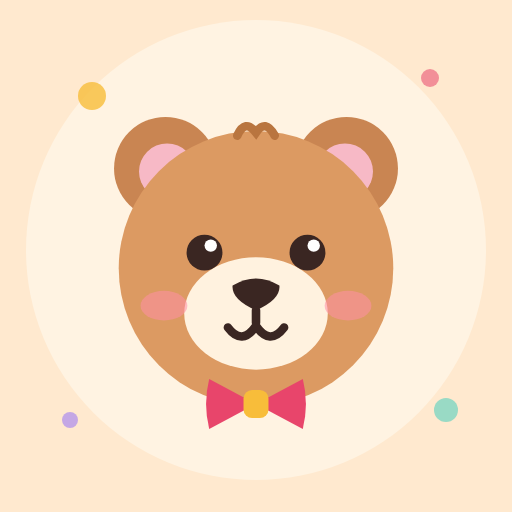
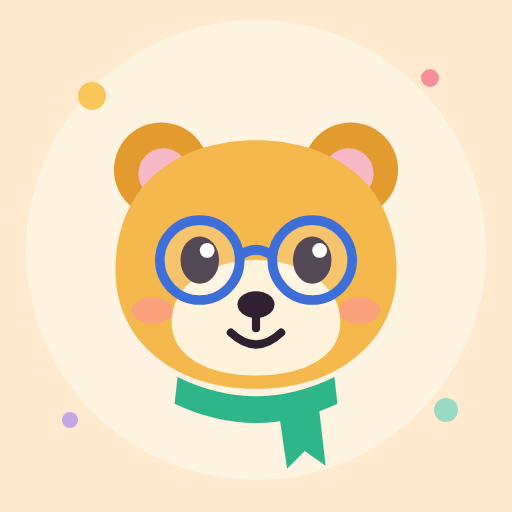
Nový vzhľad medveďa Bystríka (okuliare, šál), nová ikonka a obrázková Dnešná cesta na Domove
Claude-Session: https://claude.ai/code/session_018aZDihgpDWGJXkeqRS6Fno

Changed region(s): [[0.2188, 0.2188, 0.7812, 0.9062]]

diff --git a/index.html b/index.html
@@ -1153,6 +1153,9 @@ body{background-attachment:fixed!important}
 .vhg i.now{outline:2.5px solid var(--accent);outline-offset:1px}
 .vhl{display:flex;align-items:center;gap:4px;font-size:.66rem;font-weight:700;color:var(--muted);width:100%}.vhl i{width:14px;height:14px;border-radius:4px}
 .vspark{width:100%;height:96px;display:block}.vsl{display:flex;justify-content:space-between;font-size:.72rem;font-weight:700;color:var(--muted)}.vsl b{color:var(--ink)}
+.pathcard{padding:12px 14px;display:flex;flex-direction:column;gap:8px}.pathcard .sec h2{font-size:1.25rem}
+.pathwrap{position:relative;border-radius:16px;overflow:visible;border:2px solid var(--edge)}.pathwrap svg{display:block;width:100%;height:auto;border-radius:14px}
+.pathbear{position:absolute;width:15%;aspect-ratio:1;transform:translate(-50%,-112%);pointer-events:none;transition:left .6s cubic-bezier(.3,1.3,.5,1),top .6s}.pathbear svg{width:100%;height:100%;filter:drop-shadow(0 3px 0 rgba(0,0,0,.15));animation:bob 2.4s ease-in-out infinite}
 /* ===== Vlastný vzhľad „mapa dobrodružstva“ ===== */
 .card{border-width:2px;box-shadow:0 6px 0 var(--drop),0 14px 24px -14px var(--drop)}
 .btn{border-width:2px;border-radius:999px;letter-spacing:.01em}
@@ -1193,7 +1196,7 @@ h1,h2,.logintitle{letter-spacing:-.01em}
   .loginv{max-width:520px}
 }
 </style>
-<svg width="0" height="0" style="position:absolute\" aria-hidden="true"><defs><radialGradient id="bfur" cx="38%" cy="28%" r="80%"><stop offset="0" stop-color="#F2B782"/><stop offset=".55" stop-color="#D9935A"/><stop offset="1" stop-color="#B36F3A"/></radialGradient><radialGradient id="bfur2" cx="40%" cy="30%" r="80%"><stop offset="0" stop-color="#DFA06A"/><stop offset="1" stop-color="#A9652F"/></radialGradient><radialGradient id="bbelly" cx="50%" cy="30%" r="80%"><stop offset="0" stop-color="#FFF3E0"/><stop offset="1" stop-color="#F5D2A8"/></radialGradient><radialGradient id="bear" cx="50%" cy="40%" r="70%"><stop offset="0" stop-color="#FFC9D6"/><stop offset="1" stop-color="#F29BB0"/></radialGradient><radialGradient id="bcheek" cx="50%" cy="50%" r="50%"><stop offset="0" stop-color="#FF7F9A" stop-opacity=".8"/><stop offset="1" stop-color="#FF7F9A" stop-opacity="0"/></radialGradient><linearGradient id="bbow" x1="0" y1="0" x2="0" y2="1"><stop offset="0" stop-color="#FF8A6B"/><stop offset="1" stop-color="#E8482F"/></linearGradient><radialGradient id="cg" cx="35%" cy="30%" r="75%"><stop offset="0" stop-color="#FFF4B0"/><stop offset=".45" stop-color="#FFD23F"/><stop offset="1" stop-color="#E09A00"/></radialGradient><linearGradient id="cg2" x1="0" y1="0" x2="1" y2="1"><stop offset="0" stop-color="#FFE77A"/><stop offset="1" stop-color="#C77F00"/></linearGradient></defs><symbol id="coin" viewBox="0 0 40 40"><circle cx="20" cy="20" r="19" fill="url(#cg2)"/><circle cx="20" cy="20" r="15.5" fill="url(#cg)" stroke="#B87400" stroke-width="1.2"/><g stroke="#C98200" stroke-width="2" stroke-linecap="round"><path d="M20 7.5v3.5M20 29v3.5M7.5 20h3.5M29 20h3.5M11.2 11.2l2.4 2.4M26.4 26.4l2.4 2.4M28.8 11.2l-2.4 2.4M13.6 26.4l-2.4 2.4"/></g><circle cx="20" cy="20" r="5.5" fill="#FFB800" stroke="#C98200" stroke-width="1.5"/><path d="M12 12.5a11 11 0 0 1 9-4.5" stroke="#FFFBE0" stroke-width="2" fill="none" stroke-linecap="round" opacity=".9"/></symbol></svg>
+<svg width="0" height="0" style="position:absolute\" aria-hidden="true"><defs><radialGradient id="bfur" cx="38%" cy="26%" r="85%"><stop offset="0" stop-color="#FFD98A"/><stop offset=".55" stop-color="#F2B24A"/><stop offset="1" stop-color="#D98A22"/></radialGradient><radialGradient id="bfur2" cx="40%" cy="30%" r="80%"><stop offset="0" stop-color="#F5BC5C"/><stop offset="1" stop-color="#CF7F1E"/></radialGradient><radialGradient id="bbelly" cx="50%" cy="30%" r="80%"><stop offset="0" stop-color="#FFF3E0"/><stop offset="1" stop-color="#F5D2A8"/></radialGradient><radialGradient id="bear" cx="50%" cy="40%" r="70%"><stop offset="0" stop-color="#FFC9D6"/><stop offset="1" stop-color="#F29BB0"/></radialGradient><radialGradient id="bcheek" cx="50%" cy="50%" r="50%"><stop offset="0" stop-color="#FF7F9A" stop-opacity=".8"/><stop offset="1" stop-color="#FF7F9A" stop-opacity="0"/></radialGradient><linearGradient id="bbow" x1="0" y1="0" x2="0" y2="1"><stop offset="0" stop-color="#4FD3A5"/><stop offset="1" stop-color="#1F9D78"/></linearGradient><radialGradient id="cg" cx="35%" cy="30%" r="75%"><stop offset="0" stop-color="#FFF4B0"/><stop offset=".45" stop-color="#FFD23F"/><stop offset="1" stop-color="#E09A00"/></radialGradient><linearGradient id="cg2" x1="0" y1="0" x2="1" y2="1"><stop offset="0" stop-color="#FFE77A"/><stop offset="1" stop-color="#C77F00"/></linearGradient></defs><symbol id="coin" viewBox="0 0 40 40"><circle cx="20" cy="20" r="19" fill="url(#cg2)"/><circle cx="20" cy="20" r="15.5" fill="url(#cg)" stroke="#B87400" stroke-width="1.2"/><g stroke="#C98200" stroke-width="2" stroke-linecap="round"><path d="M20 7.5v3.5M20 29v3.5M7.5 20h3.5M29 20h3.5M11.2 11.2l2.4 2.4M26.4 26.4l2.4 2.4M28.8 11.2l-2.4 2.4M13.6 26.4l-2.4 2.4"/></g><circle cx="20" cy="20" r="5.5" fill="#FFB800" stroke="#C98200" stroke-width="1.5"/><path d="M12 12.5a11 11 0 0 1 9-4.5" stroke="#FFFBE0" stroke-width="2" fill="none" stroke-linecap="round" opacity=".9"/></symbol></svg>
 <div class="blobs" aria-hidden="true"><i></i><i></i><i></i><i></i><i></i></div>
 <div class="app" id="app"></div>
 <div id="toast" aria-live="polite"></div>
@@ -3129,7 +3132,7 @@ function nav(on) {
   const b = (v, i, n, dot) => `<button class="${on === v ? 'on' : ''}" data-a="nav" data-v="${v}"><span class="ni">${i}</span>${n}${dot ? '<span class="dot"></span>' : ''}</button>`;
   return `<nav class="nav"><div class="in">${b('home', '🏠', 'Domov', claimable && on !== 'home')}${b('learn', '📚', 'Učenie')}${b('games', '🎮', 'Hry')}${b('friends', '🤝', 'Priatelia', !!(FR && FR.total > 0) && on !== 'friends')}${b('shop', '🛍', 'Obchod')}${b('wardrobe', '👕', 'Šatník', fresh)}</div></nav>`;
 }
-const bearSvg = (cls = 'owl') => `<svg class="bear ${cls}" viewBox="0 0 120 120" aria-hidden="true"><ellipse class="b-shadow" cx="60" cy="115.5" rx="30" ry="4" fill="#000" opacity=".12"/><g class="b-all"><g class="b-feet"><ellipse cx="43" cy="109" rx="11" ry="7.5" fill="url(#bfur2)"/><ellipse cx="77" cy="109" rx="11" ry="7.5" fill="url(#bfur2)"/><ellipse cx="43" cy="110.5" rx="5.2" ry="3.4" fill="#FFE3C2"/><ellipse cx="77" cy="110.5" rx="5.2" ry="3.4" fill="#FFE3C2"/><circle cx="37.5" cy="105.5" r="1.5" fill="#FFE3C2"/><circle cx="43" cy="104.3" r="1.5" fill="#FFE3C2"/><circle cx="48.5" cy="105.5" r="1.5" fill="#FFE3C2"/><circle cx="71.5" cy="105.5" r="1.5" fill="#FFE3C2"/><circle cx="77" cy="104.3" r="1.5" fill="#FFE3C2"/><circle cx="82.5" cy="105.5" r="1.5" fill="#FFE3C2"/></g><g class="b-body"><ellipse cx="60" cy="92" rx="27" ry="21.5" fill="url(#bfur)"/><ellipse cx="60" cy="96" rx="16.5" ry="14" fill="url(#bbelly)"/><path d="M53 99 q7 5 14 0" stroke="#EBC79C" stroke-width="1.6" fill="none" stroke-linecap="round" opacity=".7"/></g><g class="b-arm-l"><ellipse cx="34" cy="89" rx="8" ry="12.5" fill="url(#bfur2)" transform="rotate(24 34 89)"/><ellipse cx="30.6" cy="96.5" rx="3.6" ry="2.6" fill="#FFE3C2" opacity=".85" transform="rotate(24 30.6 96.5)"/></g><g class="b-arm-r"><ellipse cx="86" cy="89" rx="8" ry="12.5" fill="url(#bfur2)" transform="rotate(-24 86 89)"/><ellipse cx="89.4" cy="96.5" rx="3.6" ry="2.6" fill="#FFE3C2" opacity=".85" transform="rotate(-24 89.4 96.5)"/></g><g class="b-head"><g class="b-ear-l"><circle cx="29" cy="23" r="13.5" fill="url(#bfur2)"/><circle cx="29.5" cy="24" r="7.6" fill="url(#bear)"/></g><g class="b-ear-r"><circle cx="91" cy="23" r="13.5" fill="url(#bfur2)"/><circle cx="90.5" cy="24" r="7.6" fill="url(#bear)"/></g><ellipse cx="60" cy="50" rx="38" ry="35.5" fill="url(#bfur)"/><ellipse cx="45" cy="29" rx="17" ry="8" fill="#fff" opacity=".16" transform="rotate(-18 45 29)"/><path d="M55 15.5 q3 -6 6.5 -1 q3 -4.5 5 1" stroke="#B9753F" stroke-width="2.4" fill="none" stroke-linecap="round"/><ellipse cx="60" cy="63" rx="18.5" ry="14" fill="url(#bbelly)"/><path d="M39.5 35.5 q5.5 -4 11 -1.6" stroke="#8A5226" stroke-width="2.4" fill="none" stroke-linecap="round" opacity=".75"/><path d="M69.5 33.9 q5.5 -2.4 11 1.6" stroke="#8A5226" stroke-width="2.4" fill="none" stroke-linecap="round" opacity=".75"/><g class="b-eyes"><ellipse cx="45.5" cy="46" rx="6.6" ry="7.4" fill="#33221E"/><ellipse cx="74.5" cy="46" rx="6.6" ry="7.4" fill="#33221E"/><ellipse cx="45.5" cy="48.6" rx="4.2" ry="3.4" fill="#7A4A2E" opacity=".75"/><ellipse cx="74.5" cy="48.6" rx="4.2" ry="3.4" fill="#7A4A2E" opacity=".75"/><circle cx="47.9" cy="43" r="2.7" fill="#fff"/><circle cx="76.9" cy="43" r="2.7" fill="#fff"/><circle cx="43.3" cy="49.3" r="1.2" fill="#fff" opacity=".9"/><circle cx="72.3" cy="49.3" r="1.2" fill="#fff" opacity=".9"/></g><g class="b-happyeyes"><path d="M39.5 47.5 Q45.5 39.5 51.5 47.5 M68.5 47.5 Q74.5 39.5 80.5 47.5" stroke="#33221E" stroke-width="3.4" fill="none" stroke-linecap="round"/></g><ellipse class="b-cheek" cx="34.5" cy="59" rx="6.8" ry="4.4" fill="url(#bcheek)"/><ellipse class="b-cheek" cx="85.5" cy="59" rx="6.8" ry="4.4" fill="url(#bcheek)"/><path class="b-nose" d="M52.8 55.2 Q60 50.6 67.2 55.2 Q67.6 59.4 60 62.6 Q52.4 59.4 52.8 55.2 Z" fill="#3A2622"/><ellipse cx="57.6" cy="55.3" rx="2.6" ry="1.3" fill="#fff" opacity=".55"/><path class="b-smile" d="M60 62.6 V66 M52 67 Q56 72.4 60 67.4 Q64 72.4 68 67" stroke="#3A2622" stroke-width="2.4" fill="none" stroke-linecap="round" stroke-linejoin="round"/><g class="b-mouth"><path d="M53.5 65.5 Q60 63.5 66.5 65.5 Q66 75 60 75 Q54 75 53.5 65.5 Z" fill="#7A2335"/><ellipse cx="60" cy="72.2" rx="3.6" ry="2.2" fill="#FF8FA6"/></g></g><g class="b-bow"><path d="M60 84.5 L46.5 77.5 Q44.5 84.5 46.5 91.5 Z" fill="url(#bbow)"/><path d="M60 84.5 L73.5 77.5 Q75.5 84.5 73.5 91.5 Z" fill="url(#bbow)"/><path d="M49 80.5 q-1 4 0 8" stroke="#fff" stroke-width="1.2" fill="none" stroke-linecap="round" opacity=".45"/><rect x="56.2" y="80.6" width="7.6" height="7.8" rx="2.6" fill="#FFC94D" stroke="#E8A200" stroke-width=".8"/></g></g><g class="b-sparks"><path d="M12 40 l2 5 5 2-5 2-2 5-2-5-5-2 5-2z" fill="#FFC94D"/><path d="M104 30 l1.6 4 4 1.6-4 1.6-1.6 4-1.6-4-4-1.6 4-1.6z" fill="#FF8FA3"/><path d="M108 76 l1.4 3.4 3.4 1.4-3.4 1.4-1.4 3.4-1.4-3.4-3.4-1.4 3.4-1.4z" fill="#86E3C9"/></g></svg>`;
+const bearSvg = (cls = 'owl') => `<svg class="bear ${cls}" viewBox="0 0 120 120" aria-hidden="true"><ellipse class="b-shadow" cx="60" cy="116" rx="27" ry="3.6" fill="#000" opacity=".12"/><g class="b-all"><g class="b-feet"><ellipse cx="47" cy="111.5" rx="10" ry="6" fill="url(#bfur2)"/><ellipse cx="73" cy="111.5" rx="10" ry="6" fill="url(#bfur2)"/><ellipse cx="47" cy="112.6" rx="5" ry="2.8" fill="#FFF3DC"/><ellipse cx="73" cy="112.6" rx="5" ry="2.8" fill="#FFF3DC"/></g><g class="b-body"><path d="M38 96 Q38 80 60 80 Q82 80 82 96 Q82 113 60 113 Q38 113 38 96Z" fill="url(#bfur)"/><ellipse cx="60" cy="100" rx="13" ry="10.5" fill="url(#bbelly)"/></g><g class="b-arm-l"><ellipse cx="38.5" cy="94" rx="6.6" ry="10.5" fill="url(#bfur2)" transform="rotate(20 38.5 94)"/></g><g class="b-arm-r"><ellipse cx="81.5" cy="94" rx="6.6" ry="10.5" fill="url(#bfur2)" transform="rotate(-20 81.5 94)"/></g><g class="b-bow"><path d="M37 78.5 Q60 89 83 78.5 L83.5 86 Q60 97 36.5 86Z" fill="url(#bbow)"/><path d="M66 87 L78 85 L80 103 L74 99 L69 104Z" fill="url(#bbow)"/><path d="M70 91 l8 -1.3 M70.6 96 l8.2 -1.4" stroke="#fff" stroke-width="1.6" opacity=".55" stroke-linecap="round"/><path d="M44 83.6 q4 2 7 2.6 M56 86.6 q4 .4 8 0" stroke="#fff" stroke-width="1.6" opacity=".5" stroke-linecap="round" fill="none"/></g><g class="b-head"><g class="b-ear-l"><circle cx="24" cy="19" r="13" fill="url(#bfur2)"/><circle cx="24.6" cy="20" r="7" fill="url(#bear)"/></g><g class="b-ear-r"><circle cx="96" cy="19" r="13" fill="url(#bfur2)"/><circle cx="95.4" cy="20" r="7" fill="url(#bear)"/></g><path d="M16 48 C16 22 36 9 60 9 C84 9 104 22 104 48 C104 70 86 85 60 85 C34 85 16 70 16 48Z" fill="url(#bfur)"/><ellipse cx="42" cy="24" rx="16" ry="7" fill="#fff" opacity=".2" transform="rotate(-20 42 24)"/><path d="M60 44 C74 44 86 52 86 64 C86 75 75 81 60 81 C45 81 34 75 34 64 C34 52 46 44 60 44Z" fill="url(#bbelly)"/><g class="b-eyes"><ellipse cx="42.5" cy="45" rx="6.2" ry="7.6" fill="#2E2030"/><ellipse cx="77.5" cy="45" rx="6.2" ry="7.6" fill="#2E2030"/><circle cx="44.8" cy="42" r="2.6" fill="#fff"/><circle cx="79.8" cy="42" r="2.6" fill="#fff"/><circle cx="40.6" cy="48.4" r="1.2" fill="#fff" opacity=".85"/><circle cx="75.6" cy="48.4" r="1.2" fill="#fff" opacity=".85"/></g><g class="b-happyeyes"><path d="M36 47 Q42.5 38.5 49 47 M71 47 Q77.5 38.5 84 47" stroke="#2E2030" stroke-width="3.4" fill="none" stroke-linecap="round"/></g><g fill="rgba(255,255,255,.2)" stroke="#3E6FD8" stroke-width="2.8"><circle cx="42.5" cy="45" r="12.5"/><circle cx="77.5" cy="45" r="12.5"/></g><path d="M55 44 Q60 40.5 65 44" stroke="#3E6FD8" stroke-width="2.8" fill="none" stroke-linecap="round"/><path d="M33.5 37 q3 -3.4 7 -4" stroke="#fff" stroke-width="2" opacity=".7" fill="none" stroke-linecap="round"/><path d="M68.5 37 q3 -3.4 7 -4" stroke="#fff" stroke-width="2" opacity=".7" fill="none" stroke-linecap="round"/><ellipse class="b-cheek" cx="28" cy="60" rx="6.5" ry="4.2" fill="url(#bcheek)"/><ellipse class="b-cheek" cx="92" cy="60" rx="6.5" ry="4.2" fill="url(#bcheek)"/><ellipse class="b-nose" cx="60" cy="58.5" rx="5.6" ry="4" fill="#2E2030"/><ellipse cx="58.4" cy="57.3" rx="1.9" ry="1.1" fill="#fff" opacity=".6"/><path class="b-smile" d="M60 62.5 V65.5 M52 66.5 Q60 74 68 66.5" stroke="#2E2030" stroke-width="2.5" fill="none" stroke-linecap="round" stroke-linejoin="round"/><g class="b-mouth"><path d="M53 66 Q60 64 67 66 Q66.5 76 60 76 Q53.5 76 53 66Z" fill="#7A2335"/><ellipse cx="60" cy="73" rx="3.6" ry="2.2" fill="#FF8FA6"/></g></g></g><g class="b-sparks"><path d="M10 40 l2 5 5 2-5 2-2 5-2-5-5-2 5-2z" fill="#FFC94D"/><path d="M108 28 l1.6 4 4 1.6-4 1.6-1.6 4-1.6-4-4-1.6 4-1.6z" fill="#FF8FA3"/><path d="M110 78 l1.4 3.4 3.4 1.4-3.4 1.4-1.4 3.4-1.4-3.4-3.4-1.4 3.4-1.4z" fill="#86E3C9"/></g></svg>`;
 const owlSvg = bearSvg;
 const TIPS = ['Učenie nájdeš dole v lište pod 📚.', 'Za slniečka si v obchode kúpiš nové veci!', 'Každá správna odpoveď ťa posunie k novej odmene!', 'Splň dnešné úlohy a vyzdvihni si body!', 'Kartičky pomáhajú zapamätať si učivo.', 'V spájačke spájaš, čo k sebe patrí.', 'Chyba nevadí. Aj z nej sa učíš!', 'Keď niečomu nerozumieš, opýtaj sa ma v chate.', 'Uč sa každý deň a séria porastie! 🔥'];
 const starStr = n => `<span class="stars" aria-label="${n} z 3 hviezd">${[0, 1, 2].map(i => i < n ? '⭐' : '<span style="opacity:.25">⭐</span>').join('')}</span>`;
@@ -3276,6 +3279,13 @@ const PGUIDE = [
   { h: 'Krok 2: Rodičovský účet', t: 'Je to táto karta úplne hore. Zadáte meno, denný cieľ a PIN, aby sa sem nedostali deti.', v: 'settings', f: '.parentcard', go: 'Vytvoriť účet →' }
 ];
 function endPGuide() { clearTut(); DATA.pguideSeen = 1; save(); if (!DATA.parent.pin) { sfx('tap'); PSEL = DATA.current; PTAB = 'over'; go('parent', {}, 'f'); } }
+function todayPath(p, d) {
+  const nodes = [{ e: '🎁', n: 'Odmena', done: !drReady(p) }, { e: '🎯', n: 'Výzva', done: p.dailyDone === today() }, ...d.tasks.map((id, k) => { const T = TASKS.find(x => x.id === id); return { e: T.i, n: 'Úloha ' + (k + 1), done: d.claimed.includes(id) }; }), { e: '🏆', n: 'Truhlica', done: !!d.bonus }];
+  const cur = nodes.findIndex(x => !x.done); const all = cur < 0; const X = k => 30 + k * 56, Y = k => (k % 2 ? 50 : 80); const doneN = nodes.filter(x => x.done).length;
+  const path = nodes.map((_, k) => (k ? 'L' : 'M') + X(k) + ' ' + Y(k)).join(' ');
+  const bx = all ? X(nodes.length - 1) : X(cur), by = all ? Y(nodes.length - 1) : Y(cur);
+  return `<section class="card pathcard"><div class="sec"><h2>🗺 Dnešná cesta</h2><span class="eyebrow">${doneN}/${nodes.length}</span></div><div class="pathwrap"><svg viewBox="0 0 340 118" preserveAspectRatio="xMidYMid meet" aria-hidden="true"><defs><linearGradient id="psky" x1="0" y1="0" x2="0" y2="1"><stop offset="0" stop-color="var(--c-mat-soft)"/><stop offset="1" stop-color="var(--paper2)"/></linearGradient></defs><rect width="340" height="118" rx="16" fill="url(#psky)"/><circle cx="302" cy="24" r="13" fill="#FFD23F"/><g fill="#fff" opacity=".85"><ellipse cx="70" cy="22" rx="20" ry="7"/><ellipse cx="84" cy="17" rx="12" ry="7"/><ellipse cx="210" cy="16" rx="16" ry="6"/></g><path d="M0 92 Q60 60 120 86 T240 82 T340 76 V118 H0Z" fill="var(--c-prv-soft)"/><path d="M0 104 Q80 84 170 102 T340 96 V118 H0Z" fill="color-mix(in srgb,var(--c-prv) 35%,var(--c-prv-soft))"/><path d="${path}" fill="none" stroke="var(--paper)" stroke-width="9" stroke-linecap="round" stroke-linejoin="round"/><path d="${path}" fill="none" stroke="var(--edge)" stroke-width="2.5" stroke-dasharray="2 7" stroke-linecap="round" stroke-linejoin="round" opacity=".55"/>${nodes.map((x, k) => `<g transform="translate(${X(k)} ${Y(k)})"><circle r="15" fill="${x.done ? 'var(--good)' : k === cur ? 'var(--sun)' : 'var(--paper)'}" stroke="var(--edge)" stroke-width="2.5"/>${x.done ? '<path d="M-6 0 l4 4.5 l8 -9" stroke="#fff" stroke-width="3.2" fill="none" stroke-linecap="round" stroke-linejoin="round"/>' : `<text y="6" text-anchor="middle" font-size="16">${x.e}</text>`}</g>`).join('')}</svg><span class="pathbear ${all ? 'win' : ''}" style="left:${bx / 340 * 100}%;top:${by / 118 * 100}%">${bearSvg(all ? 'cheer' : '')}</span></div><p class="muted b" style="font-size:.86rem;margin:0">${all ? 'Dnes máš všetko splnené. Bystrík je na teba hrdý! 🎉' : 'Ďalšia zastávka: <b style="color:var(--ink)">' + nodes[cur].n + '</b>. Bystrík ide s tebou.'}</p></section>`;
+}
 function parentNeedCard() { if (DATA.parent && DATA.parent.pin) return ''; return `<button class="card pneed press" data-a="pguide"><span class="ic">👨👩👧</span><span><b>Rodičia: vytvorte si účet</b><span class="b" style="font-size:.9rem">Trvá to minútu. Ťuknite a prevediem vás.</span></span><em>!</em></button>`; }
 function a2hsCard() { if ((window.claude && window.claude.use) || isStandalone() || DATA.a2hsHide) return ''; const ios = /iphone|ipad|ipod/i.test(navigator.userAgent); return `<div class="card a2card"><span class="ic">📲</span><span><b>Daj si Bystríka na plochu</b><span class="b" style="font-size:.86rem">${A2HS ? 'Bude mať vlastnú ikonku a otvorí sa na celú obrazovku.' : ios ? 'V Safari ťukni dole na Zdieľať a zvoľ „Pridať na plochu“.' : 'V ponuke prehliadača ⋮ zvoľ „Pridať na plochu“ alebo „Inštalovať aplikáciu“.'}</span>${A2HS ? '<button class="btn small primary" data-a="install" style="margin-top:6px">📲 Pridať na plochu</button>' : ''}</span><button class="tutx" data-a="a2hs-hide" aria-label="Skryť">✕</button></div>`; }
 const PTOUR = [
@@ -3416,7 +3426,7 @@ VIEWS.home = () => {
   const subj = k => { const ts = SUBJECTS[k].topics.filter(t => t.g === p.grade); const st = ts.reduce((s, t) => s + (p.topics[t.id]?.stars || 0), 0); const max = ts.length * 3; return `<button class="card subj ${k} press" data-a="subject" data-s="${k}"><span class="big">${k === 'mat' ? '1+2' : k === 'sjl' ? 'Aa' : '🌍'}</span><h3>${SUBJECTS[k].name}</h3><span class="muted b" style="font-size:.85rem">⭐ ${st} / ${max} hviezd</span><span class="pbar"><i style="width:${max ? st / max * 100 : 0}%"></i></span><span class="deco">${k === 'mat' ? '➗' : k === 'sjl' ? '✏' : '🔭'}</span></button>`; };
   const dd = p.dailyDone === today();
   const quick = `<div class="quickrow"><button class="card qk press" data-a="rtab-go" data-t="streak"><span class="qi">🔥</span><b>${p.streak.count} ${plural(p.streak.count, 'deň', 'dni', 'dní')}</b><small>${p.streak.last === today() ? 'séria drží' : 'uč sa dnes'}</small></button><button class="card qk press" data-a="nav" data-v="rewards"><span class="qi">🏆</span><b>Odmeny</b><small>Level ${li.L}</small></button><button class="card qk press" data-a="nav" data-v="board"><span class="qi">🥇</span><b>Rebríček</b><small>top 20</small></button><button class="card qk press" data-a="${DATA.parent && DATA.parent.pin ? 'parent-open' : 'pguide'}"><span class="qi">👨👩👧</span><b>Rodičia</b><small>${DATA.parent && DATA.parent.pin ? 'účet s PIN' : 'vytvoriť účet'}</small></button></div><div class="card tipcard">${owlSvg('')}<p>${pick(TIPS)}</p></div>`;
-  return `${topbar()}<main class="view pop-in">${stage}${quick}${parentNeedCard()}${a2hsCard()}
+  return `${topbar()}<main class="view pop-in">${stage}${quick}${parentNeedCard()}${a2hsCard()}${todayPath(p, d)}
   <div class="sec"><h2>Dnes</h2><span class="eyebrow">${p.grade}. ročník</span></div>
   ${drReady(p) ? `<button class="card drcard press" data-a="dreward"><span class="ic">🎁</span><span><b>Denná odmena čaká!</b><span class="b" style="font-size:.9rem">Ťukni a vyzdvihni si dnešný darček.</span></span><em>!</em></button>` : ''}
   ${reviewCard(p)}

diff --git a/src/app.js b/src/app.js
@@ -357,7 +357,7 @@ function nav(on) {
   const b = (v, i, n, dot) => `<button class="${on === v ? 'on' : ''}" data-a="nav" data-v="${v}"><span class="ni">${i}</span>${n}${dot ? '<span class="dot"></span>' : ''}</button>`;
   return `<nav class="nav"><div class="in">${b('home', '🏠', 'Domov', claimable && on !== 'home')}${b('learn', '📚', 'Učenie')}${b('games', '🎮', 'Hry')}${b('friends', '🤝', 'Priatelia', !!(FR && FR.total > 0) && on !== 'friends')}${b('shop', '🛍', 'Obchod')}${b('wardrobe', '👕', 'Šatník', fresh)}</div></nav>`;
 }
-const bearSvg = (cls = 'owl') => `<svg class="bear ${cls}" viewBox="0 0 120 120" aria-hidden="true"><ellipse class="b-shadow" cx="60" cy="115.5" rx="30" ry="4" fill="#000" opacity=".12"/><g class="b-all"><g class="b-feet"><ellipse cx="43" cy="109" rx="11" ry="7.5" fill="url(#bfur2)"/><ellipse cx="77" cy="109" rx="11" ry="7.5" fill="url(#bfur2)"/><ellipse cx="43" cy="110.5" rx="5.2" ry="3.4" fill="#FFE3C2"/><ellipse cx="77" cy="110.5" rx="5.2" ry="3.4" fill="#FFE3C2"/><circle cx="37.5" cy="105.5" r="1.5" fill="#FFE3C2"/><circle cx="43" cy="104.3" r="1.5" fill="#FFE3C2"/><circle cx="48.5" cy="105.5" r="1.5" fill="#FFE3C2"/><circle cx="71.5" cy="105.5" r="1.5" fill="#FFE3C2"/><circle cx="77" cy="104.3" r="1.5" fill="#FFE3C2"/><circle cx="82.5" cy="105.5" r="1.5" fill="#FFE3C2"/></g><g class="b-body"><ellipse cx="60" cy="92" rx="27" ry="21.5" fill="url(#bfur)"/><ellipse cx="60" cy="96" rx="16.5" ry="14" fill="url(#bbelly)"/><path d="M53 99 q7 5 14 0" stroke="#EBC79C" stroke-width="1.6" fill="none" stroke-linecap="round" opacity=".7"/></g><g class="b-arm-l"><ellipse cx="34" cy="89" rx="8" ry="12.5" fill="url(#bfur2)" transform="rotate(24 34 89)"/><ellipse cx="30.6" cy="96.5" rx="3.6" ry="2.6" fill="#FFE3C2" opacity=".85" transform="rotate(24 30.6 96.5)"/></g><g class="b-arm-r"><ellipse cx="86" cy="89" rx="8" ry="12.5" fill="url(#bfur2)" transform="rotate(-24 86 89)"/><ellipse cx="89.4" cy="96.5" rx="3.6" ry="2.6" fill="#FFE3C2" opacity=".85" transform="rotate(-24 89.4 96.5)"/></g><g class="b-head"><g class="b-ear-l"><circle cx="29" cy="23" r="13.5" fill="url(#bfur2)"/><circle cx="29.5" cy="24" r="7.6" fill="url(#bear)"/></g><g class="b-ear-r"><circle cx="91" cy="23" r="13.5" fill="url(#bfur2)"/><circle cx="90.5" cy="24" r="7.6" fill="url(#bear)"/></g><ellipse cx="60" cy="50" rx="38" ry="35.5" fill="url(#bfur)"/><ellipse cx="45" cy="29" rx="17" ry="8" fill="#fff" opacity=".16" transform="rotate(-18 45 29)"/><path d="M55 15.5 q3 -6 6.5 -1 q3 -4.5 5 1" stroke="#B9753F" stroke-width="2.4" fill="none" stroke-linecap="round"/><ellipse cx="60" cy="63" rx="18.5" ry="14" fill="url(#bbelly)"/><path d="M39.5 35.5 q5.5 -4 11 -1.6" stroke="#8A5226" stroke-width="2.4" fill="none" stroke-linecap="round" opacity=".75"/><path d="M69.5 33.9 q5.5 -2.4 11 1.6" stroke="#8A5226" stroke-width="2.4" fill="none" stroke-linecap="round" opacity=".75"/><g class="b-eyes"><ellipse cx="45.5" cy="46" rx="6.6" ry="7.4" fill="#33221E"/><ellipse cx="74.5" cy="46" rx="6.6" ry="7.4" fill="#33221E"/><ellipse cx="45.5" cy="48.6" rx="4.2" ry="3.4" fill="#7A4A2E" opacity=".75"/><ellipse cx="74.5" cy="48.6" rx="4.2" ry="3.4" fill="#7A4A2E" opacity=".75"/><circle cx="47.9" cy="43" r="2.7" fill="#fff"/><circle cx="76.9" cy="43" r="2.7" fill="#fff"/><circle cx="43.3" cy="49.3" r="1.2" fill="#fff" opacity=".9"/><circle cx="72.3" cy="49.3" r="1.2" fill="#fff" opacity=".9"/></g><g class="b-happyeyes"><path d="M39.5 47.5 Q45.5 39.5 51.5 47.5 M68.5 47.5 Q74.5 39.5 80.5 47.5" stroke="#33221E" stroke-width="3.4" fill="none" stroke-linecap="round"/></g><ellipse class="b-cheek" cx="34.5" cy="59" rx="6.8" ry="4.4" fill="url(#bcheek)"/><ellipse class="b-cheek" cx="85.5" cy="59" rx="6.8" ry="4.4" fill="url(#bcheek)"/><path class="b-nose" d="M52.8 55.2 Q60 50.6 67.2 55.2 Q67.6 59.4 60 62.6 Q52.4 59.4 52.8 55.2 Z" fill="#3A2622"/><ellipse cx="57.6" cy="55.3" rx="2.6" ry="1.3" fill="#fff" opacity=".55"/><path class="b-smile" d="M60 62.6 V66 M52 67 Q56 72.4 60 67.4 Q64 72.4 68 67" stroke="#3A2622" stroke-width="2.4" fill="none" stroke-linecap="round" stroke-linejoin="round"/><g class="b-mouth"><path d="M53.5 65.5 Q60 63.5 66.5 65.5 Q66 75 60 75 Q54 75 53.5 65.5 Z" fill="#7A2335"/><ellipse cx="60" cy="72.2" rx="3.6" ry="2.2" fill="#FF8FA6"/></g></g><g class="b-bow"><path d="M60 84.5 L46.5 77.5 Q44.5 84.5 46.5 91.5 Z" fill="url(#bbow)"/><path d="M60 84.5 L73.5 77.5 Q75.5 84.5 73.5 91.5 Z" fill="url(#bbow)"/><path d="M49 80.5 q-1 4 0 8" stroke="#fff" stroke-width="1.2" fill="none" stroke-linecap="round" opacity=".45"/><rect x="56.2" y="80.6" width="7.6" height="7.8" rx="2.6" fill="#FFC94D" stroke="#E8A200" stroke-width=".8"/></g></g><g class="b-sparks"><path d="M12 40 l2 5 5 2-5 2-2 5-2-5-5-2 5-2z" fill="#FFC94D"/><path d="M104 30 l1.6 4 4 1.6-4 1.6-1.6 4-1.6-4-4-1.6 4-1.6z" fill="#FF8FA3"/><path d="M108 76 l1.4 3.4 3.4 1.4-3.4 1.4-1.4 3.4-1.4-3.4-3.4-1.4 3.4-1.4z" fill="#86E3C9"/></g></svg>`;
+const bearSvg = (cls = 'owl') => `<svg class="bear ${cls}" viewBox="0 0 120 120" aria-hidden="true"><ellipse class="b-shadow" cx="60" cy="116" rx="27" ry="3.6" fill="#000" opacity=".12"/><g class="b-all"><g class="b-feet"><ellipse cx="47" cy="111.5" rx="10" ry="6" fill="url(#bfur2)"/><ellipse cx="73" cy="111.5" rx="10" ry="6" fill="url(#bfur2)"/><ellipse cx="47" cy="112.6" rx="5" ry="2.8" fill="#FFF3DC"/><ellipse cx="73" cy="112.6" rx="5" ry="2.8" fill="#FFF3DC"/></g><g class="b-body"><path d="M38 96 Q38 80 60 80 Q82 80 82 96 Q82 113 60 113 Q38 113 38 96Z" fill="url(#bfur)"/><ellipse cx="60" cy="100" rx="13" ry="10.5" fill="url(#bbelly)"/></g><g class="b-arm-l"><ellipse cx="38.5" cy="94" rx="6.6" ry="10.5" fill="url(#bfur2)" transform="rotate(20 38.5 94)"/></g><g class="b-arm-r"><ellipse cx="81.5" cy="94" rx="6.6" ry="10.5" fill="url(#bfur2)" transform="rotate(-20 81.5 94)"/></g><g class="b-bow"><path d="M37 78.5 Q60 89 83 78.5 L83.5 86 Q60 97 36.5 86Z" fill="url(#bbow)"/><path d="M66 87 L78 85 L80 103 L74 99 L69 104Z" fill="url(#bbow)"/><path d="M70 91 l8 -1.3 M70.6 96 l8.2 -1.4" stroke="#fff" stroke-width="1.6" opacity=".55" stroke-linecap="round"/><path d="M44 83.6 q4 2 7 2.6 M56 86.6 q4 .4 8 0" stroke="#fff" stroke-width="1.6" opacity=".5" stroke-linecap="round" fill="none"/></g><g class="b-head"><g class="b-ear-l"><circle cx="24" cy="19" r="13" fill="url(#bfur2)"/><circle cx="24.6" cy="20" r="7" fill="url(#bear)"/></g><g class="b-ear-r"><circle cx="96" cy="19" r="13" fill="url(#bfur2)"/><circle cx="95.4" cy="20" r="7" fill="url(#bear)"/></g><path d="M16 48 C16 22 36 9 60 9 C84 9 104 22 104 48 C104 70 86 85 60 85 C34 85 16 70 16 48Z" fill="url(#bfur)"/><ellipse cx="42" cy="24" rx="16" ry="7" fill="#fff" opacity=".2" transform="rotate(-20 42 24)"/><path d="M60 44 C74 44 86 52 86 64 C86 75 75 81 60 81 C45 81 34 75 34 64 C34 52 46 44 60 44Z" fill="url(#bbelly)"/><g class="b-eyes"><ellipse cx="42.5" cy="45" rx="6.2" ry="7.6" fill="#2E2030"/><ellipse cx="77.5" cy="45" rx="6.2" ry="7.6" fill="#2E2030"/><circle cx="44.8" cy="42" r="2.6" fill="#fff"/><circle cx="79.8" cy="42" r="2.6" fill="#fff"/><circle cx="40.6" cy="48.4" r="1.2" fill="#fff" opacity=".85"/><circle cx="75.6" cy="48.4" r="1.2" fill="#fff" opacity=".85"/></g><g class="b-happyeyes"><path d="M36 47 Q42.5 38.5 49 47 M71 47 Q77.5 38.5 84 47" stroke="#2E2030" stroke-width="3.4" fill="none" stroke-linecap="round"/></g><g fill="rgba(255,255,255,.2)" stroke="#3E6FD8" stroke-width="2.8"><circle cx="42.5" cy="45" r="12.5"/><circle cx="77.5" cy="45" r="12.5"/></g><path d="M55 44 Q60 40.5 65 44" stroke="#3E6FD8" stroke-width="2.8" fill="none" stroke-linecap="round"/><path d="M33.5 37 q3 -3.4 7 -4" stroke="#fff" stroke-width="2" opacity=".7" fill="none" stroke-linecap="round"/><path d="M68.5 37 q3 -3.4 7 -4" stroke="#fff" stroke-width="2" opacity=".7" fill="none" stroke-linecap="round"/><ellipse class="b-cheek" cx="28" cy="60" rx="6.5" ry="4.2" fill="url(#bcheek)"/><ellipse class="b-cheek" cx="92" cy="60" rx="6.5" ry="4.2" fill="url(#bcheek)"/><ellipse class="b-nose" cx="60" cy="58.5" rx="5.6" ry="4" fill="#2E2030"/><ellipse cx="58.4" cy="57.3" rx="1.9" ry="1.1" fill="#fff" opacity=".6"/><path class="b-smile" d="M60 62.5 V65.5 M52 66.5 Q60 74 68 66.5" stroke="#2E2030" stroke-width="2.5" fill="none" stroke-linecap="round" stroke-linejoin="round"/><g class="b-mouth"><path d="M53 66 Q60 64 67 66 Q66.5 76 60 76 Q53.5 76 53 66Z" fill="#7A2335"/><ellipse cx="60" cy="73" rx="3.6" ry="2.2" fill="#FF8FA6"/></g></g></g><g class="b-sparks"><path d="M10 40 l2 5 5 2-5 2-2 5-2-5-5-2 5-2z" fill="#FFC94D"/><path d="M108 28 l1.6 4 4 1.6-4 1.6-1.6 4-1.6-4-4-1.6 4-1.6z" fill="#FF8FA3"/><path d="M110 78 l1.4 3.4 3.4 1.4-3.4 1.4-1.4 3.4-1.4-3.4-3.4-1.4 3.4-1.4z" fill="#86E3C9"/></g></svg>`;
 const owlSvg = bearSvg;
 const TIPS = ['Učenie nájdeš dole v lište pod 📚.', 'Za slniečka si v obchode kúpiš nové veci!', 'Každá správna odpoveď ťa posunie k novej odmene!', 'Splň dnešné úlohy a vyzdvihni si body!', 'Kartičky pomáhajú zapamätať si učivo.', 'V spájačke spájaš, čo k sebe patrí.', 'Chyba nevadí. Aj z nej sa učíš!', 'Keď niečomu nerozumieš, opýtaj sa ma v chate.', 'Uč sa každý deň a séria porastie! 🔥'];
 const starStr = n => `<span class="stars" aria-label="${n} z 3 hviezd">${[0, 1, 2].map(i => i < n ? '⭐' : '<span style="opacity:.25">⭐</span>').join('')}</span>`;
@@ -504,6 +504,13 @@ const PGUIDE = [
   { h: 'Krok 2: Rodičovský účet', t: 'Je to táto karta úplne hore. Zadáte meno, denný cieľ a PIN, aby sa sem nedostali deti.', v: 'settings', f: '.parentcard', go: 'Vytvoriť účet →' }
 ];
 function endPGuide() { clearTut(); DATA.pguideSeen = 1; save(); if (!DATA.parent.pin) { sfx('tap'); PSEL = DATA.current; PTAB = 'over'; go('parent', {}, 'f'); } }
+function todayPath(p, d) {
+  const nodes = [{ e: '🎁', n: 'Odmena', done: !drReady(p) }, { e: '🎯', n: 'Výzva', done: p.dailyDone === today() }, ...d.tasks.map((id, k) => { const T = TASKS.find(x => x.id === id); return { e: T.i, n: 'Úloha ' + (k + 1), done: d.claimed.includes(id) }; }), { e: '🏆', n: 'Truhlica', done: !!d.bonus }];
+  const cur = nodes.findIndex(x => !x.done); const all = cur < 0; const X = k => 30 + k * 56, Y = k => (k % 2 ? 50 : 80); const doneN = nodes.filter(x => x.done).length;
+  const path = nodes.map((_, k) => (k ? 'L' : 'M') + X(k) + ' ' + Y(k)).join(' ');
+  const bx = all ? X(nodes.length - 1) : X(cur), by = all ? Y(nodes.length - 1) : Y(cur);
+  return `<section class="card pathcard"><div class="sec"><h2>🗺 Dnešná cesta</h2><span class="eyebrow">${doneN}/${nodes.length}</span></div><div class="pathwrap"><svg viewBox="0 0 340 118" preserveAspectRatio="xMidYMid meet" aria-hidden="true"><defs><linearGradient id="psky" x1="0" y1="0" x2="0" y2="1"><stop offset="0" stop-color="var(--c-mat-soft)"/><stop offset="1" stop-color="var(--paper2)"/></linearGradient></defs><rect width="340" height="118" rx="16" fill="url(#psky)"/><circle cx="302" cy="24" r="13" fill="#FFD23F"/><g fill="#fff" opacity=".85"><ellipse cx="70" cy="22" rx="20" ry="7"/><ellipse cx="84" cy="17" rx="12" ry="7"/><ellipse cx="210" cy="16" rx="16" ry="6"/></g><path d="M0 92 Q60 60 120 86 T240 82 T340 76 V118 H0Z" fill="var(--c-prv-soft)"/><path d="M0 104 Q80 84 170 102 T340 96 V118 H0Z" fill="color-mix(in srgb,var(--c-prv) 35%,var(--c-prv-soft))"/><path d="${path}" fill="none" stroke="var(--paper)" stroke-width="9" stroke-linecap="round" stroke-linejoin="round"/><path d="${path}" fill="none" stroke="var(--edge)" stroke-width="2.5" stroke-dasharray="2 7" stroke-linecap="round" stroke-linejoin="round" opacity=".55"/>${nodes.map((x, k) => `<g transform="translate(${X(k)} ${Y(k)})"><circle r="15" fill="${x.done ? 'var(--good)' : k === cur ? 'var(--sun)' : 'var(--paper)'}" stroke="var(--edge)" stroke-width="2.5"/>${x.done ? '<path d="M-6 0 l4 4.5 l8 -9" stroke="#fff" stroke-width="3.2" fill="none" stroke-linecap="round" stroke-linejoin="round"/>' : `<text y="6" text-anchor="middle" font-size="16">${x.e}</text>`}</g>`).join('')}</svg><span class="pathbear ${all ? 'win' : ''}" style="left:${bx / 340 * 100}%;top:${by / 118 * 100}%">${bearSvg(all ? 'cheer' : '')}</span></div><p class="muted b" style="font-size:.86rem;margin:0">${all ? 'Dnes máš všetko splnené. Bystrík je na teba hrdý! 🎉' : 'Ďalšia zastávka: <b style="color:var(--ink)">' + nodes[cur].n + '</b>. Bystrík ide s tebou.'}</p></section>`;
+}
 function parentNeedCard() { if (DATA.parent && DATA.parent.pin) return ''; return `<button class="card pneed press" data-a="pguide"><span class="ic">👨👩👧</span><span><b>Rodičia: vytvorte si účet</b><span class="b" style="font-size:.9rem">Trvá to minútu. Ťuknite a prevediem vás.</span></span><em>!</em></button>`; }
 function a2hsCard() { if ((window.claude && window.claude.use) || isStandalone() || DATA.a2hsHide) return ''; const ios = /iphone|ipad|ipod/i.test(navigator.userAgent); return `<div class="card a2card"><span class="ic">📲</span><span><b>Daj si Bystríka na plochu</b><span class="b" style="font-size:.86rem">${A2HS ? 'Bude mať vlastnú ikonku a otvorí sa na celú obrazovku.' : ios ? 'V Safari ťukni dole na Zdieľať a zvoľ „Pridať na plochu“.' : 'V ponuke prehliadača ⋮ zvoľ „Pridať na plochu“ alebo „Inštalovať aplikáciu“.'}</span>${A2HS ? '<button class="btn small primary" data-a="install" style="margin-top:6px">📲 Pridať na plochu</button>' : ''}</span><button class="tutx" data-a="a2hs-hide" aria-label="Skryť">✕</button></div>`; }
 const PTOUR = [
@@ -644,7 +651,7 @@ VIEWS.home = () => {
   const subj = k => { const ts = SUBJECTS[k].topics.filter(t => t.g === p.grade); const st = ts.reduce((s, t) => s + (p.topics[t.id]?.stars || 0), 0); const max = ts.length * 3; return `<button class="card subj ${k} press" data-a="subject" data-s="${k}"><span class="big">${k === 'mat' ? '1+2' : k === 'sjl' ? 'Aa' : '🌍'}</span><h3>${SUBJECTS[k].name}</h3><span class="muted b" style="font-size:.85rem">⭐ ${st} / ${max} hviezd</span><span class="pbar"><i style="width:${max ? st / max * 100 : 0}%"></i></span><span class="deco">${k === 'mat' ? '➗' : k === 'sjl' ? '✏' : '🔭'}</span></button>`; };
   const dd = p.dailyDone === today();
   const quick = `<div class="quickrow"><button class="card qk press" data-a="rtab-go" data-t="streak"><span class="qi">🔥</span><b>${p.streak.count} ${plural(p.streak.count, 'deň', 'dni', 'dní')}</b><small>${p.streak.last === today() ? 'séria drží' : 'uč sa dnes'}</small></button><button class="card qk press" data-a="nav" data-v="rewards"><span class="qi">🏆</span><b>Odmeny</b><small>Level ${li.L}</small></button><button class="card qk press" data-a="nav" data-v="board"><span class="qi">🥇</span><b>Rebríček</b><small>top 20</small></button><button class="card qk press" data-a="${DATA.parent && DATA.parent.pin ? 'parent-open' : 'pguide'}"><span class="qi">👨👩👧</span><b>Rodičia</b><small>${DATA.parent && DATA.parent.pin ? 'účet s PIN' : 'vytvoriť účet'}</small></button></div><div class="card tipcard">${owlSvg('')}<p>${pick(TIPS)}</p></div>`;
-  return `${topbar()}<main class="view pop-in">${stage}${quick}${parentNeedCard()}${a2hsCard()}
+  return `${topbar()}<main class="view pop-in">${stage}${quick}${parentNeedCard()}${a2hsCard()}${todayPath(p, d)}
   <div class="sec"><h2>Dnes</h2><span class="eyebrow">${p.grade}. ročník</span></div>
   ${drReady(p) ? `<button class="card drcard press" data-a="dreward"><span class="ic">🎁</span><span><b>Denná odmena čaká!</b><span class="b" style="font-size:.9rem">Ťukni a vyzdvihni si dnešný darček.</span></span><em>!</em></button>` : ''}
   ${reviewCard(p)}

diff --git a/src/head.html b/src/head.html
@@ -1125,6 +1125,9 @@ body{background-attachment:fixed!important}
 .vhg i.now{outline:2.5px solid var(--accent);outline-offset:1px}
 .vhl{display:flex;align-items:center;gap:4px;font-size:.66rem;font-weight:700;color:var(--muted);width:100%}.vhl i{width:14px;height:14px;border-radius:4px}
 .vspark{width:100%;height:96px;display:block}.vsl{display:flex;justify-content:space-between;font-size:.72rem;font-weight:700;color:var(--muted)}.vsl b{color:var(--ink)}
+.pathcard{padding:12px 14px;display:flex;flex-direction:column;gap:8px}.pathcard .sec h2{font-size:1.25rem}
+.pathwrap{position:relative;border-radius:16px;overflow:visible;border:2px solid var(--edge)}.pathwrap svg{display:block;width:100%;height:auto;border-radius:14px}
+.pathbear{position:absolute;width:15%;aspect-ratio:1;transform:translate(-50%,-112%);pointer-events:none;transition:left .6s cubic-bezier(.3,1.3,.5,1),top .6s}.pathbear svg{width:100%;height:100%;filter:drop-shadow(0 3px 0 rgba(0,0,0,.15));animation:bob 2.4s ease-in-out infinite}
 /* ===== Vlastný vzhľad „mapa dobrodružstva“ ===== */
 .card{border-width:2px;box-shadow:0 6px 0 var(--drop),0 14px 24px -14px var(--drop)}
 .btn{border-width:2px;border-radius:999px;letter-spacing:.01em}
@@ -1165,7 +1168,7 @@ h1,h2,.logintitle{letter-spacing:-.01em}
   .loginv{max-width:520px}
 }
 </style>
-<svg width="0" height="0" style="position:absolute\" aria-hidden="true"><defs><radialGradient id="bfur" cx="38%" cy="28%" r="80%"><stop offset="0" stop-color="#F2B782"/><stop offset=".55" stop-color="#D9935A"/><stop offset="1" stop-color="#B36F3A"/></radialGradient><radialGradient id="bfur2" cx="40%" cy="30%" r="80%"><stop offset="0" stop-color="#DFA06A"/><stop offset="1" stop-color="#A9652F"/></radialGradient><radialGradient id="bbelly" cx="50%" cy="30%" r="80%"><stop offset="0" stop-color="#FFF3E0"/><stop offset="1" stop-color="#F5D2A8"/></radialGradient><radialGradient id="bear" cx="50%" cy="40%" r="70%"><stop offset="0" stop-color="#FFC9D6"/><stop offset="1" stop-color="#F29BB0"/></radialGradient><radialGradient id="bcheek" cx="50%" cy="50%" r="50%"><stop offset="0" stop-color="#FF7F9A" stop-opacity=".8"/><stop offset="1" stop-color="#FF7F9A" stop-opacity="0"/></radialGradient><linearGradient id="bbow" x1="0" y1="0" x2="0" y2="1"><stop offset="0" stop-color="#FF8A6B"/><stop offset="1" stop-color="#E8482F"/></linearGradient><radialGradient id="cg" cx="35%" cy="30%" r="75%"><stop offset="0" stop-color="#FFF4B0"/><stop offset=".45" stop-color="#FFD23F"/><stop offset="1" stop-color="#E09A00"/></radialGradient><linearGradient id="cg2" x1="0" y1="0" x2="1" y2="1"><stop offset="0" stop-color="#FFE77A"/><stop offset="1" stop-color="#C77F00"/></linearGradient></defs><symbol id="coin" viewBox="0 0 40 40"><circle cx="20" cy="20" r="19" fill="url(#cg2)"/><circle cx="20" cy="20" r="15.5" fill="url(#cg)" stroke="#B87400" stroke-width="1.2"/><g stroke="#C98200" stroke-width="2" stroke-linecap="round"><path d="M20 7.5v3.5M20 29v3.5M7.5 20h3.5M29 20h3.5M11.2 11.2l2.4 2.4M26.4 26.4l2.4 2.4M28.8 11.2l-2.4 2.4M13.6 26.4l-2.4 2.4"/></g><circle cx="20" cy="20" r="5.5" fill="#FFB800" stroke="#C98200" stroke-width="1.5"/><path d="M12 12.5a11 11 0 0 1 9-4.5" stroke="#FFFBE0" stroke-width="2" fill="none" stroke-linecap="round" opacity=".9"/></symbol></svg>
+<svg width="0" height="0" style="position:absolute\" aria-hidden="true"><defs><radialGradient id="bfur" cx="38%" cy="26%" r="85%"><stop offset="0" stop-color="#FFD98A"/><stop offset=".55" stop-color="#F2B24A"/><stop offset="1" stop-color="#D98A22"/></radialGradient><radialGradient id="bfur2" cx="40%" cy="30%" r="80%"><stop offset="0" stop-color="#F5BC5C"/><stop offset="1" stop-color="#CF7F1E"/></radialGradient><radialGradient id="bbelly" cx="50%" cy="30%" r="80%"><stop offset="0" stop-color="#FFF3E0"/><stop offset="1" stop-color="#F5D2A8"/></radialGradient><radialGradient id="bear" cx="50%" cy="40%" r="70%"><stop offset="0" stop-color="#FFC9D6"/><stop offset="1" stop-color="#F29BB0"/></radialGradient><radialGradient id="bcheek" cx="50%" cy="50%" r="50%"><stop offset="0" stop-color="#FF7F9A" stop-opacity=".8"/><stop offset="1" stop-color="#FF7F9A" stop-opacity="0"/></radialGradient><linearGradient id="bbow" x1="0" y1="0" x2="0" y2="1"><stop offset="0" stop-color="#4FD3A5"/><stop offset="1" stop-color="#1F9D78"/></linearGradient><radialGradient id="cg" cx="35%" cy="30%" r="75%"><stop offset="0" stop-color="#FFF4B0"/><stop offset=".45" stop-color="#FFD23F"/><stop offset="1" stop-color="#E09A00"/></radialGradient><linearGradient id="cg2" x1="0" y1="0" x2="1" y2="1"><stop offset="0" stop-color="#FFE77A"/><stop offset="1" stop-color="#C77F00"/></linearGradient></defs><symbol id="coin" viewBox="0 0 40 40"><circle cx="20" cy="20" r="19" fill="url(#cg2)"/><circle cx="20" cy="20" r="15.5" fill="url(#cg)" stroke="#B87400" stroke-width="1.2"/><g stroke="#C98200" stroke-width="2" stroke-linecap="round"><path d="M20 7.5v3.5M20 29v3.5M7.5 20h3.5M29 20h3.5M11.2 11.2l2.4 2.4M26.4 26.4l2.4 2.4M28.8 11.2l-2.4 2.4M13.6 26.4l-2.4 2.4"/></g><circle cx="20" cy="20" r="5.5" fill="#FFB800" stroke="#C98200" stroke-width="1.5"/><path d="M12 12.5a11 11 0 0 1 9-4.5" stroke="#FFFBE0" stroke-width="2" fill="none" stroke-linecap="round" opacity=".9"/></symbol></svg>
 <div class="blobs" aria-hidden="true"><i></i><i></i><i></i><i></i><i></i></div>
 <div class="app" id="app"></div>
 <div id="toast" aria-live="polite"></div>

diff --git a/sw.js b/sw.js
@@ -1,4 +1,4 @@
-const CACHE = 'bystrik-v4';
+const CACHE = 'bystrik-v5';
 const FILES = ['./', './index.html', './manifest.webmanifest', './icon-192.png', './icon-512.png', './icon-maskable-512.png'];
 self.addEventListener('install', e => { e.waitUntil(caches.open(CACHE).then(c => c.addAll(FILES))); self.skipWaiting(); });
 self.addEventListener('activate', e => { e.waitUntil(caches.keys().then(k => Promise.all(k.filter(x => x !== CACHE).map(x => caches.delete(x))))); self.clients.claim(); });
